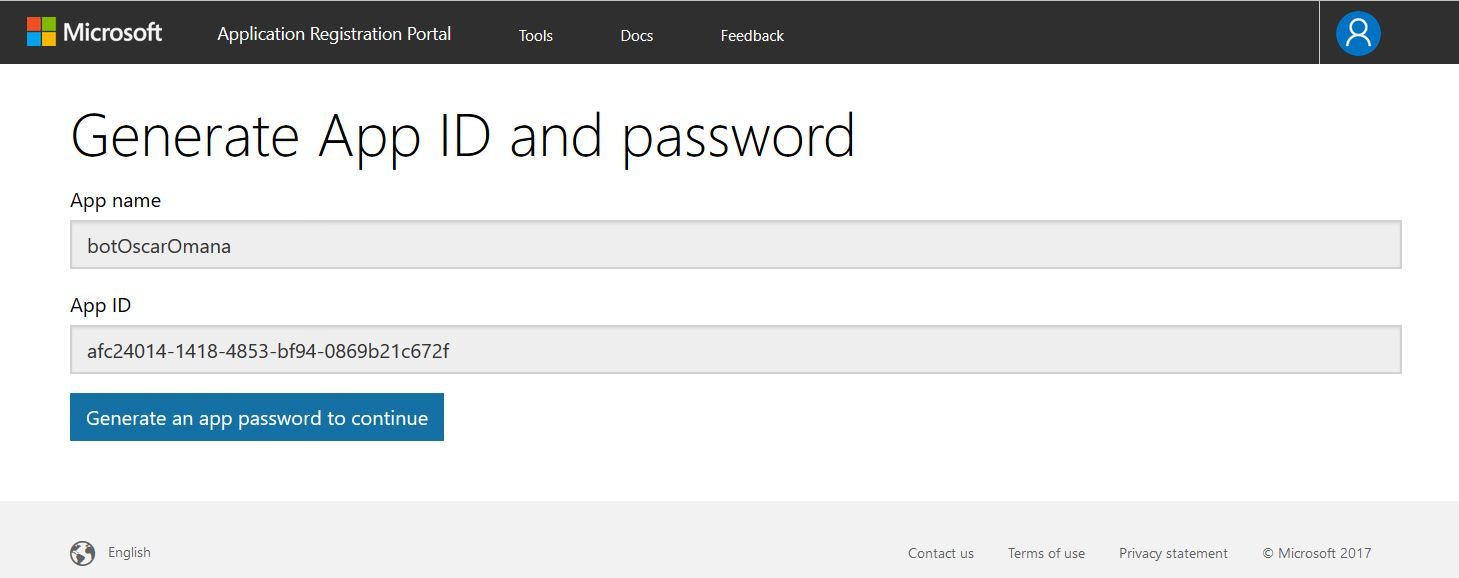
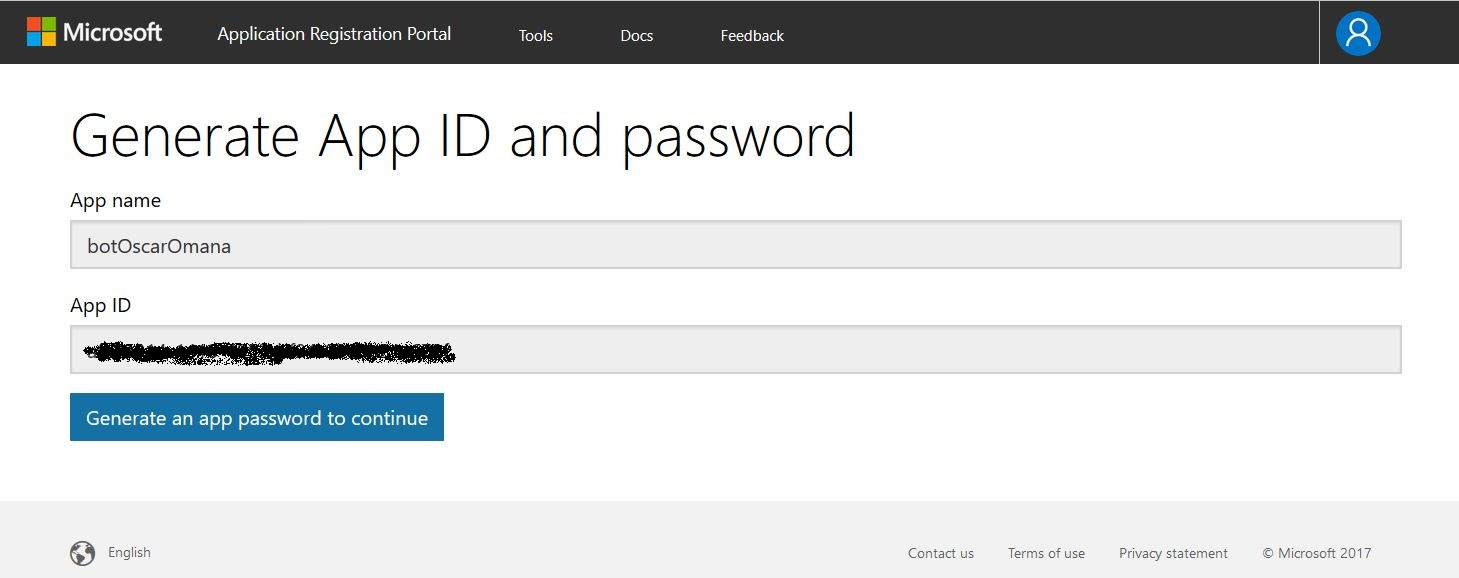
Commit 8.1.1
nuevas imagenes

Changed region(s): [[0.0617, 0.5917, 0.3084, 0.654]]

diff --git a/Ejercicios/Azure Bot Service/README.md b/Ejercicios/Azure Bot Service/README.md
@@ -36,11 +36,27 @@ Te saldrá una ventana como esta donde deberás llenar la información que se te
 •	Resource Group etc..
 
 
-Y por último damos clic en el botón de crear tomara unos minutos en lo que se aprovisiona el servicio
+Y por último damos clic en el botón de crear tomara unos minutos en lo que se despliega el servicio
 
 
 
 cuando esté listo en la parte superior derecha vas a encontrar el icono de las notificaciones en forma de campana y ahí encontraras si todo salió bien la leyenda "Deployment succeeded"
 
 <img src="Imagenes/Deployment.png"/>
+
+
+Cuando esté listo nos mostrara una pantalla como la siguiente (primera imagen) donde deberemos dar clic para generar nuestro App e ID, estos los genera automáticamente (segunda imagen) y por último damos clic en generar app password
+
+<img src="Imagenes/Capture1.png"/>
+
+<img src="Imagenes/Capture3.png"/>
+
+Aquí es muy importante que copies ese password ya que será la única vez que lo mostrara, si no lo haces deberás hacer de nuevo todo el proceso anterior.
+
+<img src="Imagenes/Capture4.png"/>
+
+Das clic en finalizar y regresar al Bot Framework 
+
+Ya en la ventana que de regresa vas a pegar ese password en el paso donde te lo indica 
+
 
